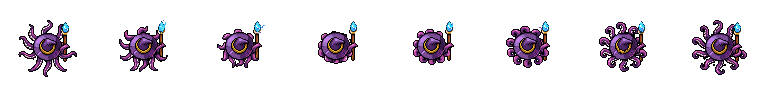
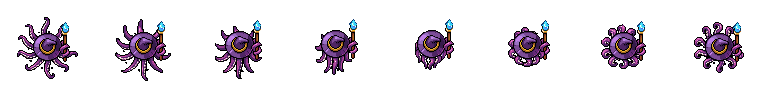
Octopus swim: tentacles glide backward under the body as it moves forward

diff --git a/tools/make_octopus.py b/tools/make_octopus.py
@@ -34,9 +34,9 @@ LOOK = ("purple octopus wizard seen from directly above, bird's-eye view at 90 d
         " tentacles spread out radially around it like a star, a wooden staff with a glowing blue crystal tip held"
         " by one tentacle pointing up, symmetric overhead view, no face visible")
 ANIMATIONS = {  # drawn on the still as it is
-    "walk": "octopus swimming forward toward the top of the image, seen from directly above: all eight tentacles"
-            " pulse together, sweeping back and contracting then spreading out wide again, a strong rhythmic"
-            " jet-propulsion stroke, seamless loop",
+    "walk": "walking cycle seen from directly above: the octopus moves forward (up), the tentacles push off and glide"
+            " backward under its body toward the bottom of the image, stretching out behind it, then curl forward"
+            " again; alternate tentacles, smooth continuous propulsion; the staff stays held, seamless loop",
     "idle": "octopus resting in place seen from directly above: the eight tentacles slowly undulate and curl at"
             " their tips like seaweed, the body breathes gently, seamless loop",
 }

diff --git a/docs/design.md b/docs/design.md
@@ -21,7 +21,7 @@
 - Vagues : mélange pondéré des types débloqués, tiré avec la vague pour graine (même plan chez tous les pairs). Trois boss en alternance toutes les 5 vagues : liche (`boss`), seigneur de guerre, mère des couvées.
 
 ## Personnage
-- Le joueur est un **mage-poulpe** (la mascotte de l'icône), plus le boss (tâche #137) : vu de dessus (~90°), sprite PixelLab qui tourne vers sa direction, animations nage (tentacules qui se contractent et s'écartent), idle, cast (un tentacule tient le bâton et l'abat vers la visée) et channeling (bâton tendu tant qu'un rayon ou un cône tourne) (`tools/make_octopus.py`, `assets/octo/`).
+- Le joueur est un **mage-poulpe** (la mascotte de l'icône), plus le boss (tâche #137) : vu de dessus (~90°), sprite PixelLab qui tourne vers sa direction, animations nage (les tentacules glissent sous lui vers l'arrière), idle, cast (un tentacule tient le bâton et l'abat vers la visée) et channeling (bâton tendu tant qu'un rayon ou un cône tourne) (`tools/make_octopus.py`, `assets/octo/`).
 - **Tous les sprites sont faits avec PixelLab** (personnages, ennemis, animations, icônes), pas dessinés en code. Pas de classes : chaque joueur personnalise son mage (apparence + équipement).
 - Sorts de base élémentaires (feu, glace, foudre, poison, arcane…), assets faits maison.
 
